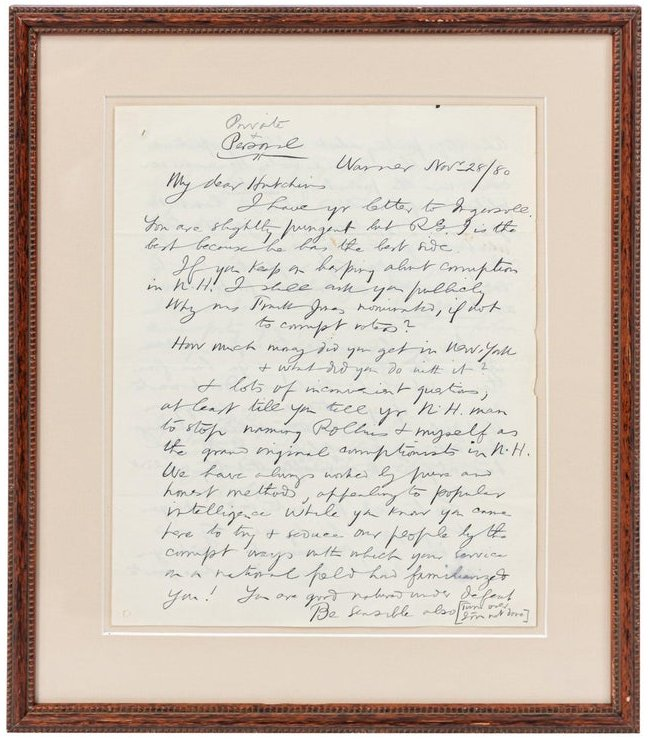
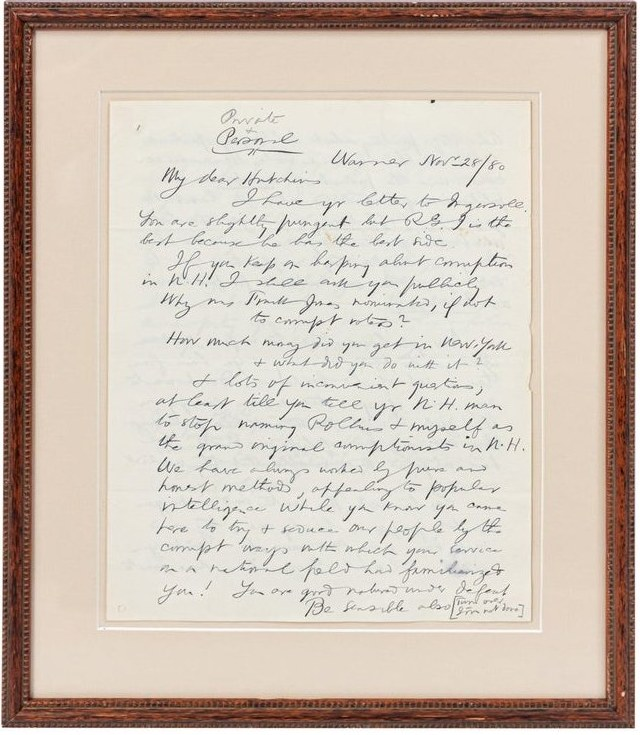
Enceintes au sol de chaque côté du USM (agrandies), tableau simplement suspendu sans fond
Claude-Session: https://claude.ai/code/session_01QjaEpA9KG4A3nKCS85PDbB

diff --git a/js/furniture.js b/js/furniture.js
@@ -445,14 +445,12 @@ export function arcLamp() {
 
 /* ───────────── TABLEAU ───────────── */
 export function painting(tex) {
-  /* Tableau accroché dans le vide contre un pan de mur fictif : dalle de plâtre crème flottante, cadre bois, passe-partout. */
+  /* Tableau simplement suspendu : le volume s'arrête au bord extérieur du cadre. */
   const g = group();
-  const wall = new THREE.MeshStandardMaterial({ color: '#f1ead9', roughness: 0.95, emissive: '#efe8d8', emissiveIntensity: 0.4 });
-  g.add(rbox(1.5, 1.25, 0.06, 0.01, wall, 0, 1.3, -0.04));
   const side = mat('#3b2616', { roughness: 0.7 });
   const front = new THREE.MeshStandardMaterial({ map: tex, roughness: 0.6 });
   const m = mesh(new THREE.BoxGeometry(0.56, 0.642, 0.03), [side, side, side, side, front, side]);
-  m.position.set(0, 1.3, 0.005);
+  m.position.set(0, 0, 0);
   g.add(m);
   return g;
 }
@@ -553,7 +551,7 @@ export function concreteLamp() {
 /* ───────────── ENCEINTE JBL L52 Classic sur pied ─────────────
  * Ébénisterie noyer (0,32 × 0,20 × 0,21 m), baffle noir granuleux, tweeter à dôme en haut, évent rond à côté, boomer de 5,25″ à cône crème
  * et bobine noire, quatre vis rondes aux angles, plaque JBL orange avec bouton de réglage. `flip` inverse la disposition (paire gauche/droite). */
-export function speaker(flip = false) {
+export function speaker(flip = false, onStand = true) {
   const g = group();
   const grain = canvasTexture(256, 256, (c, w, h) => {
     c.fillStyle = '#6b4128'; c.fillRect(0, 0, w, h);
@@ -570,8 +568,8 @@ export function speaker(flip = false) {
   stand.add(rbox(0.27, 0.014, 0.27, 0.006, steel, 0, 0.007, 0));
   for (const x of [-0.07, 0.07]) stand.add(cyl(0.011, 0.011, 0.56, steel, x, 0.3, 0, 10));
   stand.add(rbox(0.24, 0.012, 0.24, 0.005, steel, 0, 0.586, 0));
-  g.add(stand);
-  const cab = group(); cab.position.y = 0.592;
+  if (onStand) g.add(stand);
+  const cab = group(); cab.position.y = onStand ? 0.592 : 0.0;
   cab.add(rbox(W, H, D, 0.008, walnut, 0, H / 2, 0));
   cab.add(rbox(W - 0.006, H - 0.006, 0.012, 0.004, baffle, 0, H / 2, D / 2 + 0.002));
   const f = D / 2 + 0.01, sx = flip ? -1 : 1;

diff --git a/js/room.js b/js/room.js
@@ -89,8 +89,9 @@ export async function createRoom(container, bubbleEl) {
 
   const bench = F.bench(); add('bench', bench, -3.1, 2.15, 0, 0, 0.3);
   const bonsai = F.bonsai(); inkify(bonsai, { skip: (o) => !['9b9a92'].includes(o.material.color.getHexString()) }); add('bonsai', bonsai, -3.1, 2.15, 0.5, 0.28, 0.42);
-  const sp1 = F.speaker(false), sp2 = F.speaker(true); inkify(sp1, { skip: (o) => o.material.map }); inkify(sp2, { skip: (o) => o.material.map });
-  add('speaker1', sp1, -4.1, -2.0, 0.75, 0, 0.5);
+  const SPK = 1.7;                           // enceintes posées au sol, de part et d'autre du USM
+  const sp1 = F.speaker(false, false), sp2 = F.speaker(true, false); inkify(sp1, { skip: (o) => o.material.map }); inkify(sp2, { skip: (o) => o.material.map });
+  add('speaker1', sp1, -1.85, -2.4, 0.2, 0, 0.5).scale.setScalar(SPK);
 
   const EKS = 1.3;                           // l'Ekstrem est un grand fauteuil
   const ek = F.ekstrem(); add('ekstrem', ek, 2.3, -0.95, -0.45, 0, 0.35).scale.setScalar(EKS);
@@ -113,9 +114,9 @@ export async function createRoom(container, bubbleEl) {
   add('arc', arc, 0.85, -2.15, ARC_YAW, 0, 0.6, world, 0);
   mkLamp('arc', arc.userData.glow, new THREE.PointLight('#ffe0a8', 0, 6, 2), '#ffe6b0', '#8a8272');
 
-  if (paintTex) add('painting', F.painting(paintTex), 0.7, -3.5, 0.3, 0, 0.7, world, 0);
+  if (paintTex) { const pt = add('painting', F.painting(paintTex), -0.7, -2.95, 0, 1.35, 0.7, world, 0); pt.scale.setScalar(1.3); }
   const dra = F.dracaena(); inkify(dra, { skip: (o) => o.material.color.getHexString() !== 'b3a893' }); add('dracaena', dra, 2.85, -2.45, 0.3, 0, 0.65);
-  add('speaker2', sp2, 3.6, 0.7, -0.75, 0, 0.75);
+  add('speaker2', sp2, 0.4, -2.4, -0.2, 0, 0.75).scale.setScalar(SPK);
   add('shelf1', F.shelf(), 4.6, -1.3, Math.PI / 2, 0, 0.8);
 
   // positions des sources lumineuses (repère monde)
